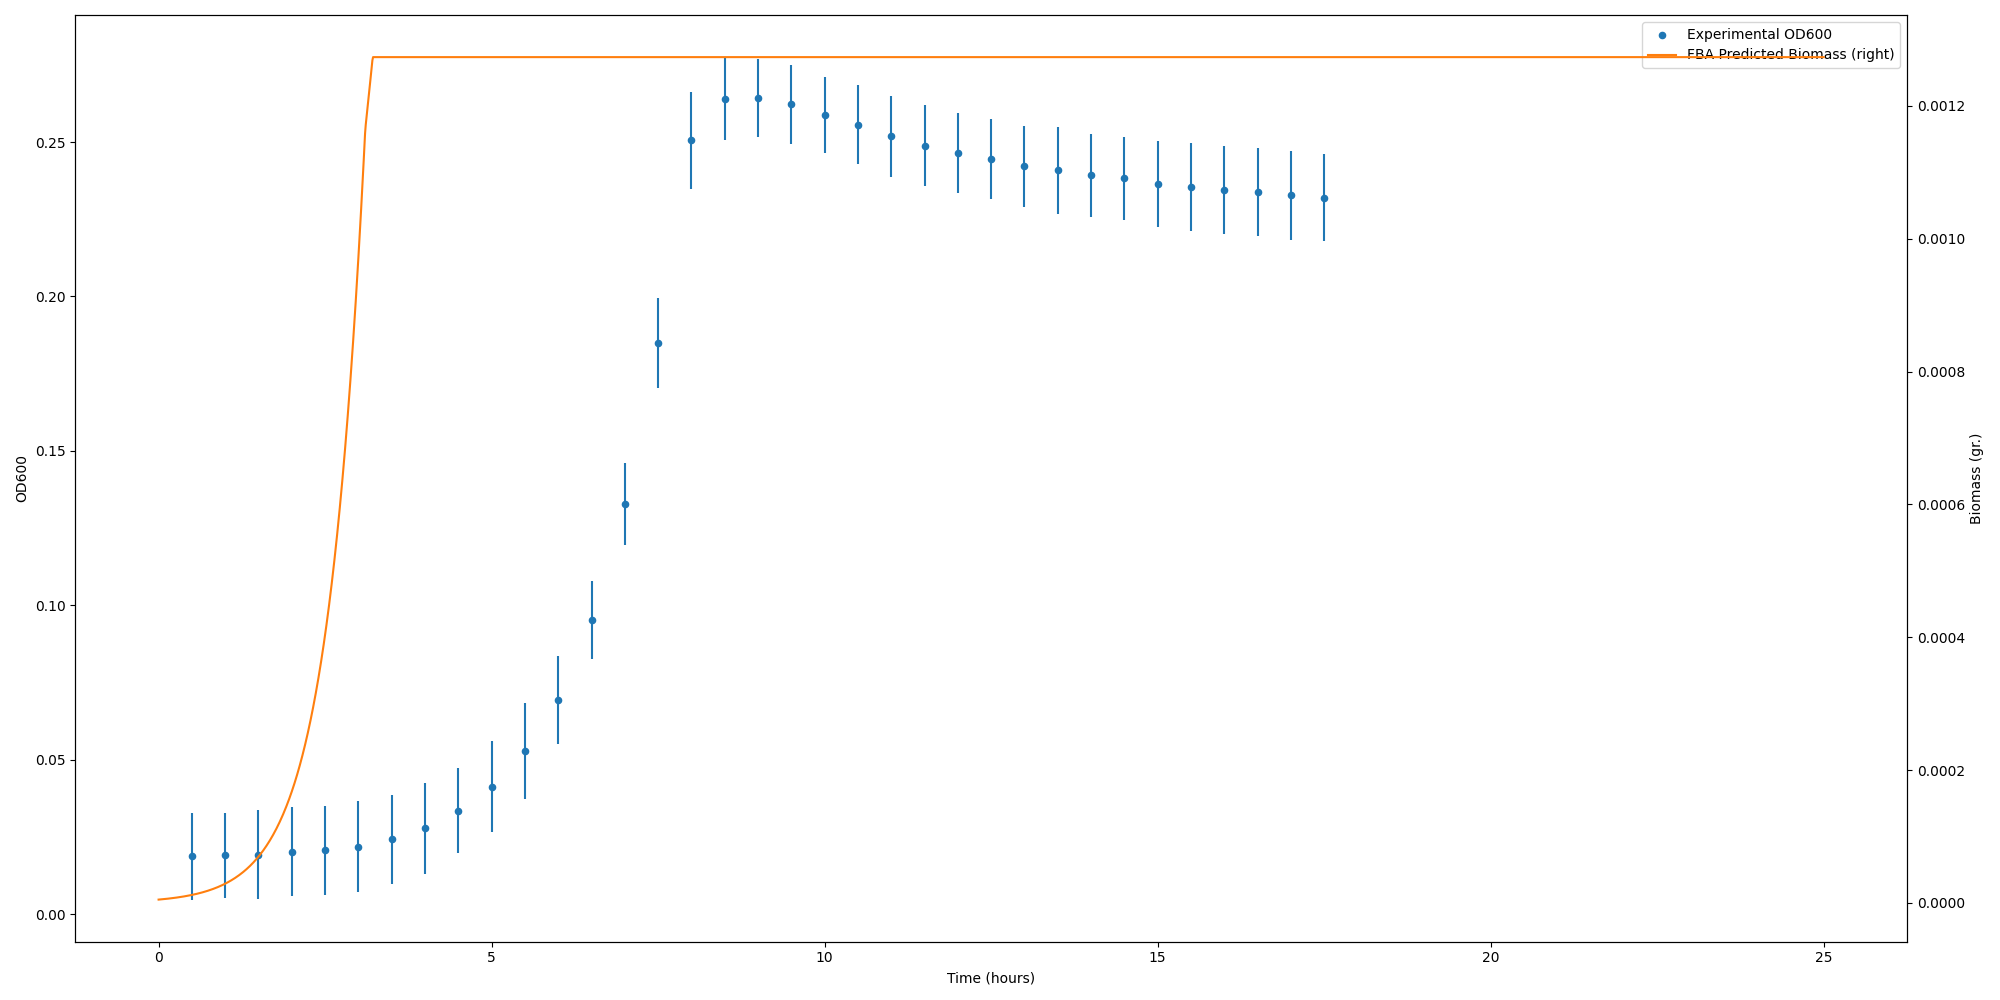
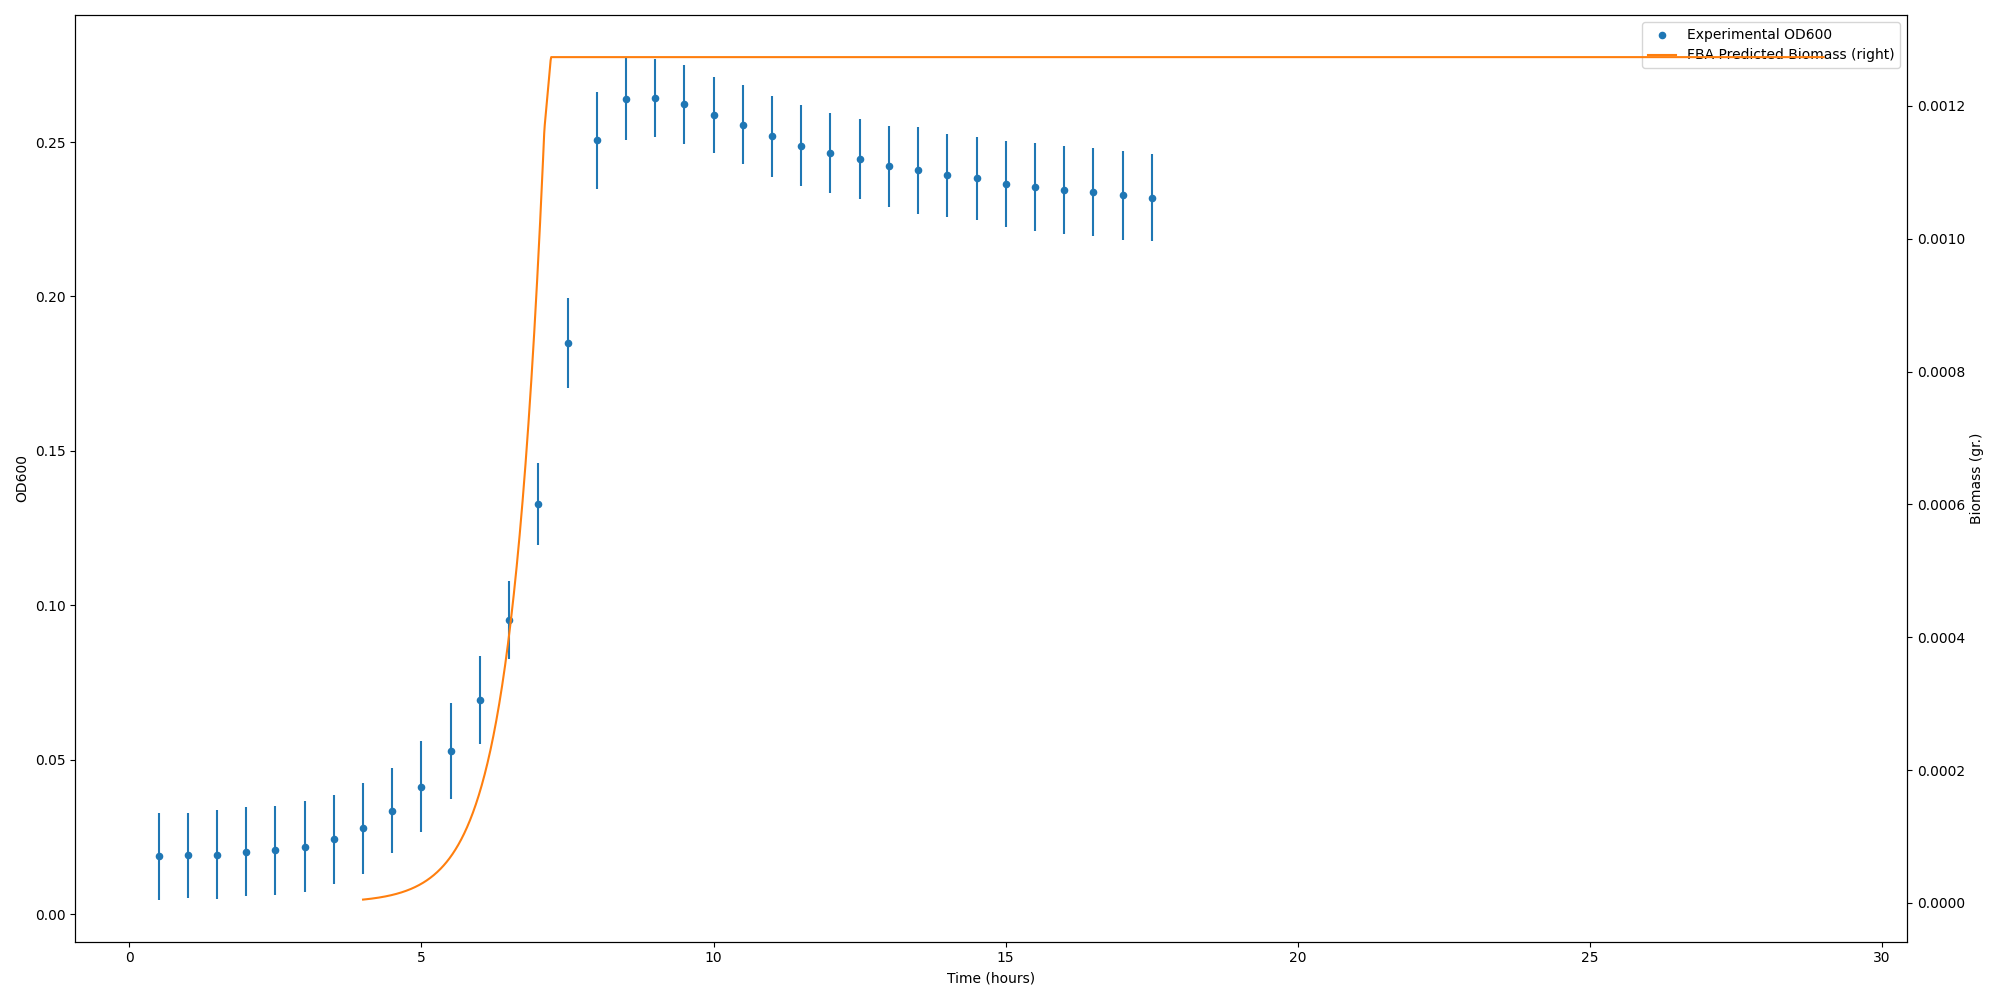
Shift the biomass in the comparison plot

Changed region(s): [[0.31, 0.093, 0.651, 0.217], [0.093, 0.744, 0.248, 0.899], [0.186, 0.868, 0.217, 0.899]]

diff --git a/mit1002_full/timecourse/plot_results.py b/mit1002_full/timecourse/plot_results.py
@@ -85,8 +85,8 @@ od.plot(x = 'Time',
         label = 'Experimental OD600')
 
 # Convert the cycles in the total biomass dataframe to hours by dividing
-# by 100
-experiment.total_biomass['Time'] = experiment.total_biomass['cycle']/100
+# by 100 and shift it to account for the lag phase
+experiment.total_biomass['Time'] = experiment.total_biomass['cycle']/100 + 4
 
 # Plot the FBA restul as Biomass on the secondary y axis
 experiment.total_biomass.plot(x = 'Time',
